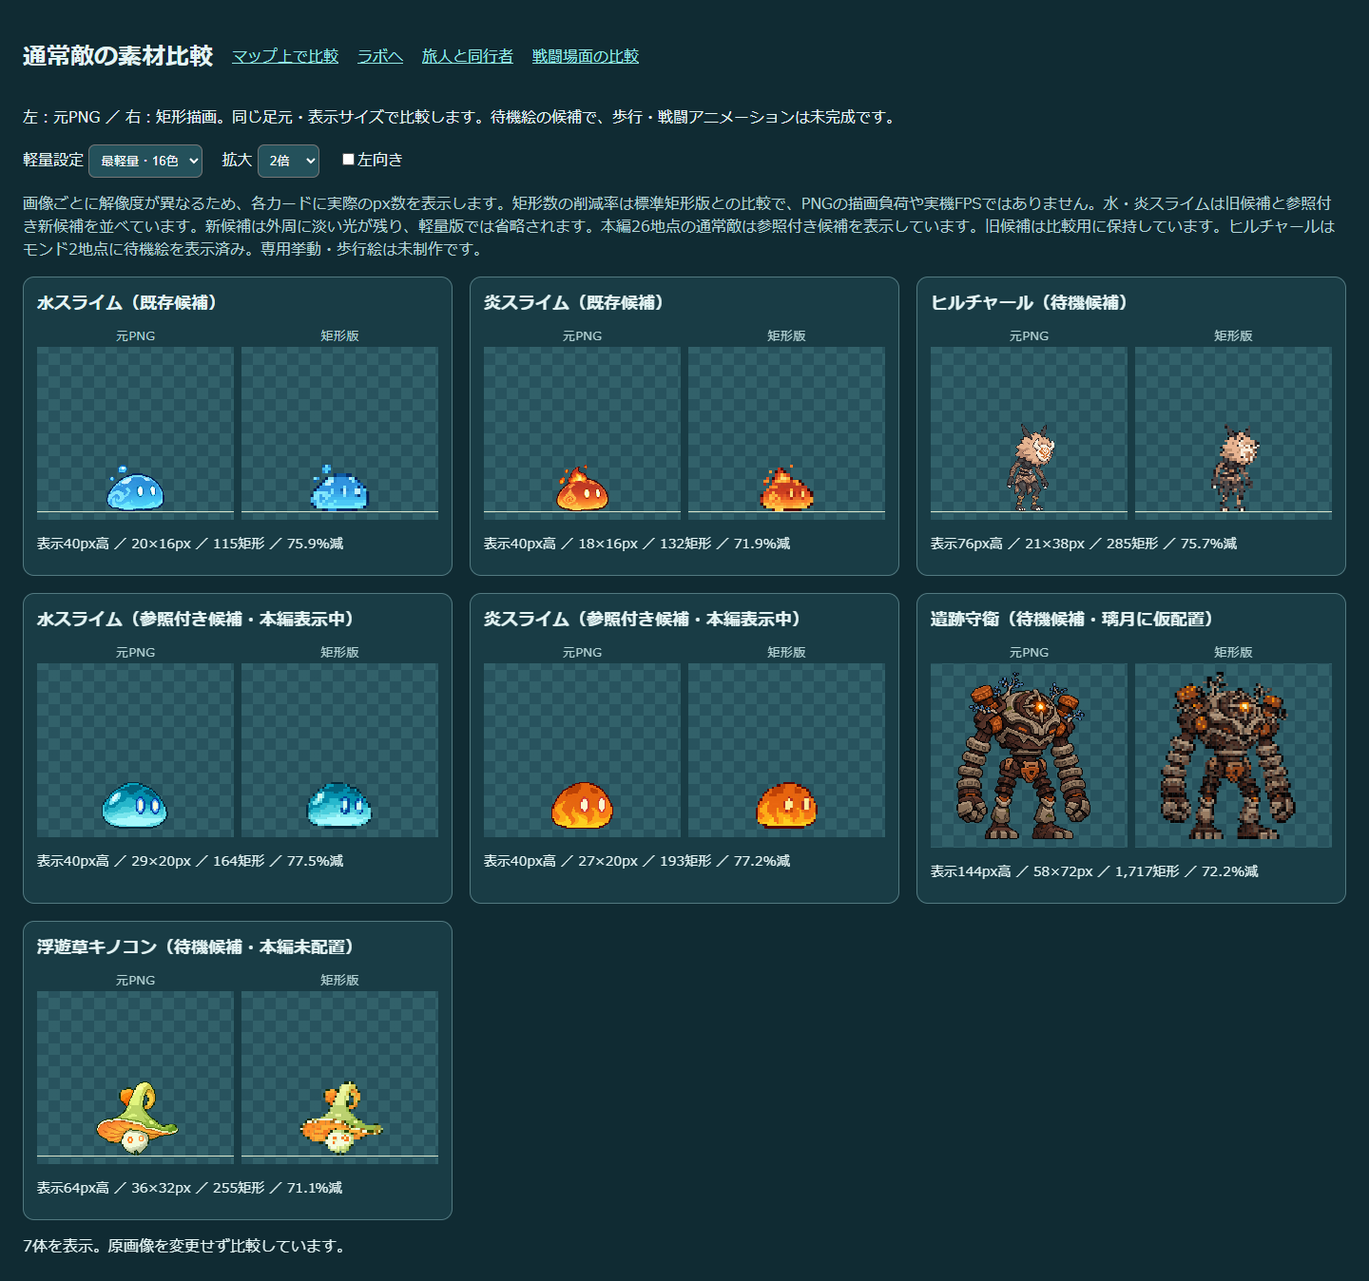
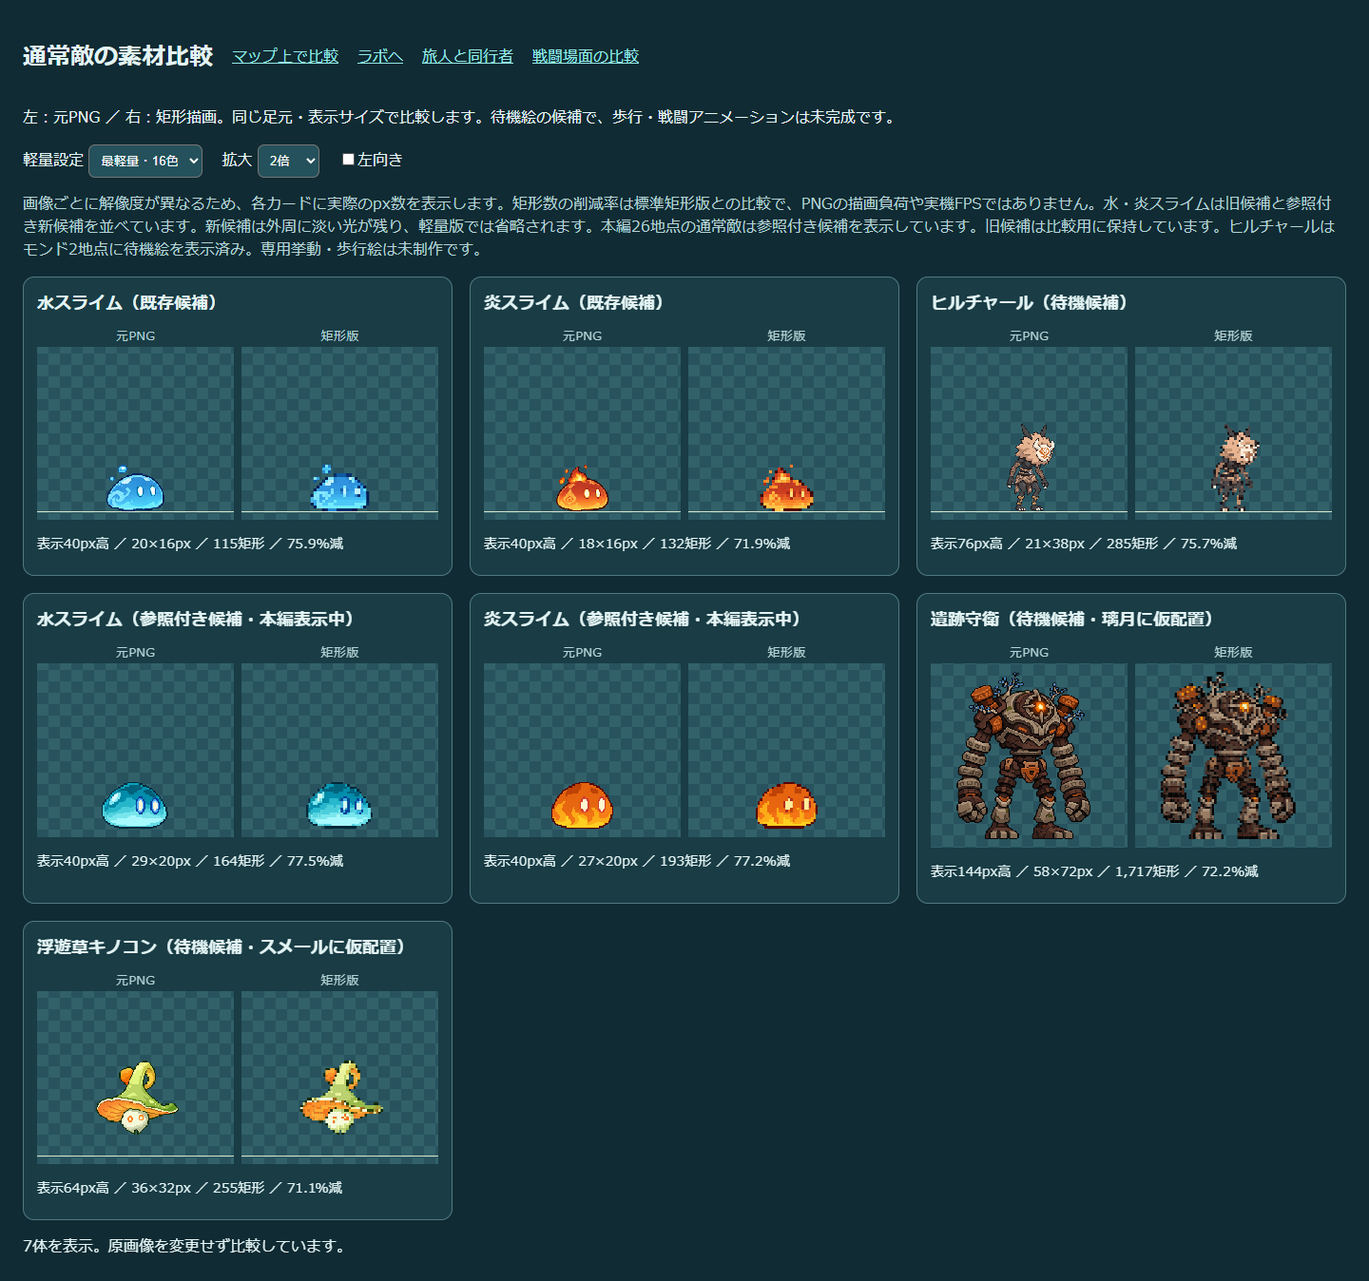
Render floating enemy art above support and place Sumeru fungus

Changed region(s): [[0.2188, 0.8101, 0.2812, 0.9036], [0.0625, 0.8101, 0.125, 0.9036], [0.1875, 0.7166, 0.3125, 0.7478]]

diff --git a/map-art.js b/map-art.js
@@ -4,12 +4,14 @@ const $=id=>document.getElementById(id),assets={},histories={};
 async function json(path){const r=await fetch(path);if(!r.ok)throw Error(path);return r.json()}
 try{
  const [graph,initial,variants]=await Promise.all([json('content/story-graph.json'),json('content/enemy-placement-drafts.json'),json('assets/variants.json'),backgroundReady]);
+ const layouts=await json('content/enemy-art-layout.json');
  let drafts=structuredClone(initial),serial=0,importTicket=0;const nodes=new Map(graph.nodes.map(n=>[n.id,n]));
  for(const [id,index] of [['hydro-slime',4],['pyro-slime',6]]){const profiles=Object.fromEntries(Object.entries(variants.variants).map(([k,v])=>[k,v.sprites[index]]));assets[id]={source:'atlas-transparent.png',box:profiles.legacy.box,profiles,h:40}}
  assets['ruin-guard']={...await json('assets/ruin-guard-idle-sprites.json'),h:144};
  assets['dendro-fungus']={...await json('assets/dendro-fungus-idle-sprites.json'),h:64};
  assets.hilichurl={...await json('assets/hilichurl-idle-sprites.json'),h:76};
  for(const element of ['hydro','pyro'])assets[`${element}-slime-reference`]={...await json(`assets/${element}-slime-idle-sprites.json`),h:40};
+ for(const [id,data] of Object.entries(assets)){const layout=layouts[id.replace('-reference','')];data.h=layout.height;data.hover=layout.hover}
  for(const data of Object.values(assets)){data.image=new Image();data.image.src='assets/'+data.source;await data.image.decode()}
  drafts=validatePlacementDraft(drafts,graph,Object.keys(assets));
  for(const n of graph.nodes){const option=document.createElement('option');option.value=n.id;option.textContent=`${n.region}｜${n.name}`;$('node').append(option)}$('node').value='mond-road';
@@ -21,14 +23,14 @@ try{
   const mapped=Object.values(sceneryDefinitions).some(d=>d.region===n.region),valid=items.every(e=>n.platforms.some(p=>p.y===e.y&&e.x>=p.x&&e.x<=p.x+p.w));
   $('cameraValue').value=camera;$('context').textContent=`${n.name} ／ 幅${n.width}px ／ ${n.hub?'拠点':n.peaceful?'非戦闘地点':'戦闘地点の仮構成'} ／ ${background.state!=='ready'?'背景画像を読み込めません：単色で表示（'+background.file+'）':mapped?(sceneryDefinitions[background.key].note||'地域用の仮背景'):'専用背景未制作：モンド画像で代用'}。敵${items.length}体（見た目確認用）。`;
   for(const mode of ['png','rect']){const ctx=$(mode).getContext('2d');ctx.clearRect(0,0,960,540);scenery(ctx,frame);ctx.imageSmoothingEnabled=false;
-   for(const e of items){const a=assets[e.species],w=a.h*a.box[2]/a.box[3],anchor=a.anchorX??.5,x=e.x-camera;ctx.save();ctx.translate(x,e.y);if(e.flip)ctx.scale(-1,1);
+   for(const e of items){const a=assets[e.species],w=a.h*a.box[2]/a.box[3],anchor=a.anchorX??.5,x=e.x-camera;ctx.save();ctx.translate(x,e.y-a.hover);if(e.flip)ctx.scale(-1,1);
     if(mode==='png')ctx.drawImage(a.image,...a.box,-w*anchor,-a.h,w,a.h);else{const p=a.profiles[profile];for(const r of p.runs){ctx.fillStyle=r[4];ctx.fillRect(-w*anchor+r[0]*w/p.width,-a.h+r[1]*a.h/p.height,r[2]*w/p.width+.05,r[3]*a.h/p.height+.05)}}ctx.restore();
     ctx.fillStyle='#ffffff';ctx.fillRect(x-3,e.y-1,6,2);
    }
   }
-  $('placements').replaceChildren();for(const e of items){const label=document.createElement('span');label.textContent=`${e.species}：(${e.x}, ${e.y})`;$('placements').append(label)}
-  const runs=items.reduce((sum,e)=>sum+assets[e.species].profiles[profile].runs.length,0);$('status').textContent=`配置${items.length}体 ／ 矩形${runs.toLocaleString()}個（配置した全体の合計・FPSではありません） ／ ${valid?'全個体が足場に接地':'足場外の配置あり'}`;$('undo').disabled=!(histories[n.id]?.length);
-  window.mapArt={ready:true,node:n.id,nodeCount:nodes.size,camera,profile,count:items.length,placements:structuredClone(items),grounded:valid,background:sceneryKey(frame),backgroundFallback:!mapped,backgroundState:background.state,backgroundFile:background.file};
+  $('placements').replaceChildren();for(const e of items){const label=document.createElement('span');label.textContent=`${e.species}：(${e.x}, ${e.y})${assets[e.species].hover?` ／ 浮き ${assets[e.species].hover}px`:``}`;$('placements').append(label)}
+  const runs=items.reduce((sum,e)=>sum+assets[e.species].profiles[profile].runs.length,0);$('status').textContent=`配置${items.length}体 ／ 矩形${runs.toLocaleString()}個（配置した全体の合計・FPSではありません） ／ ${valid?'全個体の配置基準点が足場上':'足場外の配置あり'}`;$('undo').disabled=!(histories[n.id]?.length);
+  window.mapArt={ready:true,node:n.id,nodeCount:nodes.size,camera,profile,count:items.length,placements:structuredClone(items),visuals:items.map(e=>({id:e.id,y:e.y-assets[e.species].hover,hover:assets[e.species].hover,height:assets[e.species].h})),grounded:valid,background:sceneryKey(frame),backgroundFallback:!mapped,backgroundState:background.state,backgroundFile:background.file};
  }
  function remember(id){const history=histories[id]??=[];history.push(structuredClone(drafts.nodes[id]??[]));if(history.length>100)history.shift()}
  function select(){const n=node();$('camera').max=Math.max(0,n.width-960);$('camera').value=0;render()}

diff --git a/characters-art.js b/characters-art.js
@@ -1,24 +1,26 @@
 const $=id=>document.getElementById(id),assets=[];
 async function json(path){const r=await fetch(path);if(!r.ok)throw Error(path);return r.json()}
 async function add(id,name,data,h,w){const image=new Image();image.src='assets/'+data.source;await image.decode();const article=document.createElement('article');article.innerHTML=`<h2>${name}</h2><div class="pair"><div><small>元PNG</small><canvas width="340" height="300"></canvas></div><div><small>矩形版</small><canvas width="340" height="300"></canvas></div></div><div class="stats"></div>`;$('cards').append(article);assets.push({id,data,image,article,h,w:w||h*data.box[2]/data.box[3]})}
+let layouts={};
 const enemies=document.documentElement.dataset.gallery==='enemies';
 try{
  if(enemies){
+  layouts=await json('content/enemy-art-layout.json');
   const variants=(await json('assets/variants.json')).variants;
   for(const [id,name,index] of [['hydro-slime','水スライム（既存候補）',4],['pyro-slime','炎スライム（既存候補）',6]]){const profiles=Object.fromEntries(['legacy','h48c32','h32c16'].map(k=>[k,variants[k].sprites[index]]));await add(id,name,{source:'atlas-transparent.png',box:profiles.legacy.box,profiles},40)}
   await add('hilichurl','ヒルチャール（待機候補）',await json('assets/hilichurl-idle-sprites.json'),76);
   await add('hydro-slime-reference','水スライム（参照付き候補・本編表示中）',await json('assets/hydro-slime-idle-sprites.json'),40);
   await add('pyro-slime-reference','炎スライム（参照付き候補・本編表示中）',await json('assets/pyro-slime-idle-sprites.json'),40);
   await add('ruin-guard','遺跡守衛（待機候補・璃月に仮配置）',await json('assets/ruin-guard-idle-sprites.json'),144);
-  await add('dendro-fungus','浮遊草キノコン（待機候補・本編未配置）',await json('assets/dendro-fungus-idle-sprites.json'),64);
+  await add('dendro-fungus','浮遊草キノコン（待機候補・スメールに仮配置）',await json('assets/dendro-fungus-idle-sprites.json'),64);
  }else{
  await add('traveler','旅人',await json('assets/traveler-idle-sprites.json'),88);
  await add('amber','アンバー',await json('assets/amber-idle-sprites.json'),88);
  for(const [id,name] of Object.entries({beidou:'北斗',ayaka:'神里綾華',wanderer:'放浪者',emilie:'エミリエ',kachina:'カチーナ',columbina:'コロンビーナ',mitya:'ミティヤ'}))await add(id,name,await json(`assets/${id}-idle-sprites.json`),id==='kachina'?76:88);
  }
  function render(){const profile=$('profile').value,zoom=Number($('zoom').value),flip=$('flip').checked;
-  for(const {data,image,article,h,w} of assets){const a=data.profiles[profile],height=h*zoom,width=w*zoom,anchor=data.anchorX??.5;
-   for(const [i,canvas] of [...article.querySelectorAll('canvas')].entries()){canvas.width=Math.max(340,Math.ceil(width*2*Math.max(anchor,1-anchor)+30));canvas.height=Math.max(300,Math.ceil(height+30));const ctx=canvas.getContext('2d');ctx.clearRect(0,0,canvas.width,canvas.height);ctx.imageSmoothingEnabled=false;ctx.save();ctx.translate(canvas.width/2,canvas.height-15);if(flip)ctx.scale(-1,1);const x=-width*anchor,y=-height;
+  for(const {id,data,image,article,h,w} of assets){const a=data.profiles[profile],hover=(layouts[id.replace('-reference','')]?.hover??0)*zoom,height=h*zoom,width=w*zoom,anchor=data.anchorX??.5;
+   for(const [i,canvas] of [...article.querySelectorAll('canvas')].entries()){canvas.width=Math.max(340,Math.ceil(width*2*Math.max(anchor,1-anchor)+30));canvas.height=Math.max(300,Math.ceil(height+hover+30));const ctx=canvas.getContext('2d');ctx.clearRect(0,0,canvas.width,canvas.height);ctx.imageSmoothingEnabled=false;ctx.save();ctx.translate(canvas.width/2,canvas.height-15-hover);if(flip)ctx.scale(-1,1);const x=-width*anchor,y=-height;
     if(i===0)ctx.drawImage(image,...data.box,x,y,width,height);else for(const r of a.runs){ctx.fillStyle=r[4];ctx.fillRect(x+r[0]*width/a.width,y+r[1]*height/a.height,r[2]*width/a.width+.05,r[3]*height/a.height+.05)}ctx.restore();ctx.fillStyle='#dae5cc';ctx.fillRect(0,canvas.height-15,canvas.width,1);
    }
    article.querySelector('.stats').textContent=`表示${h}px高 ／ ${a.width}×${a.height}px ／ ${a.runs.length.toLocaleString()}矩形 ／ ${(100*(1-a.runs.length/data.profiles.legacy.runs.length)).toFixed(1)}%減`;

diff --git a/app.js b/app.js
@@ -12,7 +12,7 @@ const inventoryUI=initInventoryUI(a=>actions.push(a));
 const SAVE_KEY='maple-lua-lab.checkpoint.v1';
 $('saveProgress').onclick=()=>{checkpointRequested=true;$('saveStatus').textContent='保存中…'};
 $('loadProgress').onclick=()=>{try{const raw=localStorage.getItem(SAVE_KEY);if(!raw)throw Error('保存データがありません');restoreRequested=JSON.parse(raw);if(!restoreRequested||typeof restoreRequested!=='object')throw Error('保存データを読み取れません');$('saveStatus').textContent='読み込み中…'}catch(e){restoreRequested=null;$('saveStatus').textContent=e.message}};
-const bossImages={};for(const name of [...Array.from({length:4},(_,i)=>'array-part-'+(i+1)+'-source-v1.png'),'hydro-slime-idle-source-v2.png','pyro-slime-idle-source-v1.png','ruin-guard-idle-source-v1.png','hilichurl-idle-source-v1.png','wanderer-idle-source-v2.png','emilie-idle-source-v2.png','kachina-idle-source-v2.png','columbina-idle-source-v2.png','mitya-idle-source-v2.png','amber-idle-source-v2.png','traveler-idle-source-v2.png','ayaka-idle-source-v3.png','beidou-idle-source-v3.png','thunder-source-v1.png','array-source-v1.png','maguu-slash-source-v1.png','maguu-stance-source-v1.png','maguu-mask-source-v1.png','maguu-source-v1.png','primo-source-v1.png','oceanid-crane-source-v1.png','oceanid-mallard-source-v1.png','oceanid-ferret-source-v1.png','oceanid-crab-source-v1.png','oceanid-raptor-source-v1.png','oceanid-frog-source-v1.png','oceanid-finch-source-v1.png','oceanid-source-v1.png','oceanid-boar-source-v1.png','geo-shell-source-v1.png','geo-core-source-v1.png','geo-pillar-source-v1.png','electro-shell-source-v1.png','electro-core-source-v1.png','anemo-shell-source-v1.png','anemo-core-source-v1.png','farka-source-v1.png','pyro-regisvine-source-v1.png',...Array.from({length:4},(_,i)=>'farka-actions/0'+(i+1)+'.png')]){const image=new Image();image.src='assets/'+name;await image.decode();bossImages[name]=image;}
+const bossImages={};for(const name of [...Array.from({length:4},(_,i)=>'array-part-'+(i+1)+'-source-v1.png'),'hydro-slime-idle-source-v2.png','pyro-slime-idle-source-v1.png','dendro-fungus-idle-source-v1.png','ruin-guard-idle-source-v1.png','hilichurl-idle-source-v1.png','wanderer-idle-source-v2.png','emilie-idle-source-v2.png','kachina-idle-source-v2.png','columbina-idle-source-v2.png','mitya-idle-source-v2.png','amber-idle-source-v2.png','traveler-idle-source-v2.png','ayaka-idle-source-v3.png','beidou-idle-source-v3.png','thunder-source-v1.png','array-source-v1.png','maguu-slash-source-v1.png','maguu-stance-source-v1.png','maguu-mask-source-v1.png','maguu-source-v1.png','primo-source-v1.png','oceanid-crane-source-v1.png','oceanid-mallard-source-v1.png','oceanid-ferret-source-v1.png','oceanid-crab-source-v1.png','oceanid-raptor-source-v1.png','oceanid-frog-source-v1.png','oceanid-finch-source-v1.png','oceanid-source-v1.png','oceanid-boar-source-v1.png','geo-shell-source-v1.png','geo-core-source-v1.png','geo-pillar-source-v1.png','electro-shell-source-v1.png','electro-core-source-v1.png','anemo-shell-source-v1.png','anemo-core-source-v1.png','farka-source-v1.png','pyro-regisvine-source-v1.png',...Array.from({length:4},(_,i)=>'farka-actions/0'+(i+1)+'.png')]){const image=new Image();image.src='assets/'+name;await image.decode();bossImages[name]=image;}
 const bossAtlas=new Image();bossAtlas.src='assets/cryo-regisvine-source-v1.png';
 const atlas=new Image();atlas.src='assets/atlas-transparent.png';
 try{spriteData=await (await fetch('assets/sprites.json')).json()}catch{}

diff --git a/compare.js b/compare.js
@@ -1,7 +1,7 @@
 import {scenery} from './scenery.js';
 const $=id=>document.getElementById(id);
 const data=await(await fetch('assets/variants.json')).json(),variants=data.variants;
-const bossImages={};for(const name of [...Array.from({length:4},(_,i)=>'array-part-'+(i+1)+'-source-v1.png'),'hydro-slime-idle-source-v2.png','pyro-slime-idle-source-v1.png','ruin-guard-idle-source-v1.png','hilichurl-idle-source-v1.png','wanderer-idle-source-v2.png','emilie-idle-source-v2.png','kachina-idle-source-v2.png','columbina-idle-source-v2.png','mitya-idle-source-v2.png','amber-idle-source-v2.png','traveler-idle-source-v2.png','ayaka-idle-source-v3.png','beidou-idle-source-v3.png','thunder-source-v1.png','array-source-v1.png','maguu-slash-source-v1.png','maguu-stance-source-v1.png','maguu-mask-source-v1.png','maguu-source-v1.png','primo-source-v1.png','oceanid-crane-source-v1.png','oceanid-mallard-source-v1.png','oceanid-ferret-source-v1.png','oceanid-crab-source-v1.png','oceanid-raptor-source-v1.png','oceanid-frog-source-v1.png','oceanid-finch-source-v1.png','oceanid-source-v1.png','oceanid-boar-source-v1.png','geo-shell-source-v1.png','geo-core-source-v1.png','geo-pillar-source-v1.png','electro-shell-source-v1.png','electro-core-source-v1.png','anemo-shell-source-v1.png','anemo-core-source-v1.png','farka-source-v1.png','pyro-regisvine-source-v1.png',...Array.from({length:4},(_,i)=>'farka-actions/0'+(i+1)+'.png')]){const image=new Image();image.src='assets/'+name;await image.decode();bossImages[name]=image;}
+const bossImages={};for(const name of [...Array.from({length:4},(_,i)=>'array-part-'+(i+1)+'-source-v1.png'),'hydro-slime-idle-source-v2.png','pyro-slime-idle-source-v1.png','dendro-fungus-idle-source-v1.png','ruin-guard-idle-source-v1.png','hilichurl-idle-source-v1.png','wanderer-idle-source-v2.png','emilie-idle-source-v2.png','kachina-idle-source-v2.png','columbina-idle-source-v2.png','mitya-idle-source-v2.png','amber-idle-source-v2.png','traveler-idle-source-v2.png','ayaka-idle-source-v3.png','beidou-idle-source-v3.png','thunder-source-v1.png','array-source-v1.png','maguu-slash-source-v1.png','maguu-stance-source-v1.png','maguu-mask-source-v1.png','maguu-source-v1.png','primo-source-v1.png','oceanid-crane-source-v1.png','oceanid-mallard-source-v1.png','oceanid-ferret-source-v1.png','oceanid-crab-source-v1.png','oceanid-raptor-source-v1.png','oceanid-frog-source-v1.png','oceanid-finch-source-v1.png','oceanid-source-v1.png','oceanid-boar-source-v1.png','geo-shell-source-v1.png','geo-core-source-v1.png','geo-pillar-source-v1.png','electro-shell-source-v1.png','electro-core-source-v1.png','anemo-shell-source-v1.png','anemo-core-source-v1.png','farka-source-v1.png','pyro-regisvine-source-v1.png',...Array.from({length:4},(_,i)=>'farka-actions/0'+(i+1)+'.png')]){const image=new Image();image.src='assets/'+name;await image.decode();bossImages[name]=image;}
 const bossAtlas=new Image();bossAtlas.src='assets/cryo-regisvine-source-v1.png';await bossAtlas.decode();
 const atlas=new Image();atlas.src='assets/atlas-transparent.png';await atlas.decode();
 const names={png:'原画像 PNG',...Object.fromEntries(Object.entries(variants).map(([k,v])=>[k,v.label]))};

diff --git a/test_enemy_idle_art.py b/test_enemy_idle_art.py
@@ -3,7 +3,7 @@ from PIL import Image
 from runtime import runtime,ROOT
 
 lua,c=runtime();results=[]
-for name,height in [('hydro-slime',40),('pyro-slime',40),('hilichurl',76),('ruin-guard',144)]:
+for name,height in [('hydro-slime',40),('pyro-slime',40),('hilichurl',76),('ruin-guard',144),('dendro-fungus',64)]:
  data=json.loads((ROOT/'assets'/f'{name}-idle-sprites.json').read_text())
  assert hashlib.sha256((ROOT/'assets'/data['source']).read_bytes()).hexdigest()==data['sha256']
  alpha=Image.open(ROOT/'assets'/data['source']).getchannel('A').getextrema()
@@ -18,7 +18,7 @@ for name,height in [('hydro-slime',40),('pyro-slime',40),('hilichurl',76),('ruin
   draws=[d for d in png.draws.values() if d.source==data['source']]
   assert len(draws)==1
   draw=draws[0]
-  assert draw.h==height and draw.y==350 and abs(draw.w/height-data['box'][2]/data['box'][3])<1e-9
+  assert draw.h==height and draw.y==350-(18 if name=='dendro-fungus' else 0) and abs(draw.w/height-data['box'][2]/data['box'][3])<1e-9
   assert draw.anchorX==data['anchorX']
   rect=c.frame(s,'rect',profile)
   e.hp=0;baseline=c.frame(s,'rect',profile)
@@ -30,4 +30,4 @@ for name,height in [('hydro-slime',40),('pyro-slime',40),('hilichurl',76),('ruin
   assert not any(d.source==data['source'] for d in c.frame(s,'sprite',profile).draws.values())
   results.append({'art':name,'profile':profile,'runs':len(data['profiles'][profile]['runs']),'height':height})
 (ROOT/'evidence/enemy-idle-art.json').write_text(json.dumps({'results':results,'checks':['source hash and alpha','foot anchor and aspect ratio','dead and offscreen hidden','exact added rectangle count','render leaves mechanics unchanged'],'limits':['Residual low-alpha halo in source PNG','No animation or native-performance verification']},indent=2)+'\n')
-print('Four enemy assets: all profiles, anchors, culling and unchanged mechanics passed')
+print('Five enemy assets: all profiles, anchors, culling and unchanged mechanics passed')

diff --git a/runtime.py b/runtime.py
@@ -59,7 +59,8 @@ def runtime():
     core.travelerIdleArt=lua.table_from(json.loads((ROOT/'assets/traveler-idle-sprites.json').read_text(encoding='utf8')),recursive=True)
     core.enemySpawns=lua.table_from(json.loads((ROOT/'content/enemy-spawns.json').read_text(encoding='utf8'))['nodes'],recursive=True)
     core.hilichurlArt=lua.table_from(json.loads((ROOT/'assets/hilichurl-idle-sprites.json').read_text(encoding='utf8')),recursive=True)
-    core.enemyIdleArt=lua.table_from({key:json.loads((ROOT/'assets'/f'{key}-idle-sprites.json').read_text(encoding='utf8')) for key in ['hydro-slime','pyro-slime','hilichurl','ruin-guard']},recursive=True)
+    core.enemyArtLayout=lua.table_from(json.loads((ROOT/'content/enemy-art-layout.json').read_text()),recursive=True)
+    core.enemyIdleArt=lua.table_from({key:json.loads((ROOT/'assets'/f'{key}-idle-sprites.json').read_text(encoding='utf8')) for key in ['hydro-slime','pyro-slime','hilichurl','ruin-guard','dendro-fungus']},recursive=True)
     core.amberIdleArt=lua.table_from(json.loads((ROOT/'assets/amber-idle-sprites.json').read_text(encoding='utf8')),recursive=True)
     core.thunderArt=lua.table_from(json.loads((ROOT/'assets/thunder-sprites.json').read_text(encoding='utf8')),recursive=True)
     core.arrayArt=lua.table_from(json.loads((ROOT/'assets/array-sprites.json').read_text(encoding='utf8')),recursive=True)

diff --git a/test_story_enemy_spawns.py b/test_story_enemy_spawns.py
@@ -17,7 +17,7 @@ for n in graph['nodes']:
     for i, p in enumerate(expected, 1):
         support = n['platforms'][p['platform']]
         e = s.enemies[i]
-        assert p['kind'] in (1, 2) and p['art'] in ('hydro-slime', 'pyro-slime', 'hilichurl', 'ruin-guard')
+        assert p['kind'] in (1, 2) and p['art'] in ('hydro-slime', 'pyro-slime', 'hilichurl', 'ruin-guard', 'dendro-fungus')
         assert support['x']+24 <= p['x'] <= support['x']+support['w']-24
         assert (e.home,e.y,e.kind,e.spawnId) == (p['x'],support['y'],p['kind'],p['id'])
         # Existing lure movement must not pull an elevated enemy beyond its support.

diff --git a/CHAT_HANDOFF.md b/CHAT_HANDOFF.md
@@ -204,3 +204,5 @@ map-art.html追加: 本編61仮地点の足場/背景を選択し、元PNGと軽
 2026-11-17: 配置プレビューに「この地点の本編配置を読み込む」を追加。enemy-spawns.jsonの足場番号を座標へ変換し、水/炎スライムを参照付き素材へ対応付け。61地点・156体のID/位置/接地と不正6ケースを検査。現在地点だけを置換し、編集履歴を配列スナップショットへ変更して読込/追加/初期化を取り消せる（地点ごと直近100操作）。読込失敗時保持・別地点保持・空の町・JSON書出・390px・既存61地点編集検査通過、璃月PNG/最軽量の画面を目視。読み込んだ配置は静止の編集案で、変更は本編に自動反映しない。背景は仮画像、技変更なし。 根拠 evidence/live-placement-browser.json。
 
 2026-11-17: 浮遊草キノコンの待機絵候補を追加。HoYoWiki2729の顔アイコン/全身画像を直接確認し画像参照付き生成。同一全身の別サイズは別角度と数えず、別種のゲーム画像は除外。MMD API404で背面/側面モデル未確認。64/48/32pxは882/559/255矩形（最軽量71.09%減、FPSではない）。7候補ギャラリー3設定3倍率左右/390px、スメール背景で配置3設定/JSON書出読戻、既存61地点検査通過。PNG/最軽量を目視し巻いた傘と橙色の裏は残るが目の輪やひだは小さくなる。素材は比較画面のみ、下端を足場へ合わせた仮表示で浮遊移動/本編配置/専用技は未実装。 根拠 evidence/dendro-fungus-reference-audit.json。
+
+2026-11-17: 浮遊草キノコンをスメール雨林の道sumeru-fieldに1体仮配置。共通enemy-art-layout.jsonで高さ64px/浮き18pxを定義し、Lua本編・配置プレビュー・素材比較へ反映。配置基準y480を保持し描画下端y462とする。表示のみの差でHP/攻撃判定/共通移動は変更なし。5敵素材3設定の位置/非表示/描画非干渉、61地点156体の配置/誘引/再出現、story19件、7敵/9人ギャラリー、配置61地点/キノコン書出読戻を検査し通過。実Luaの本編静止フレームをブラウザでPNG/最軽量描画、目視で足場下の浮きと輪郭を確認。連続到達プレイ・浮遊AI・専用技・原作通りの判定は未検証/未実装。背景は仮画像。
